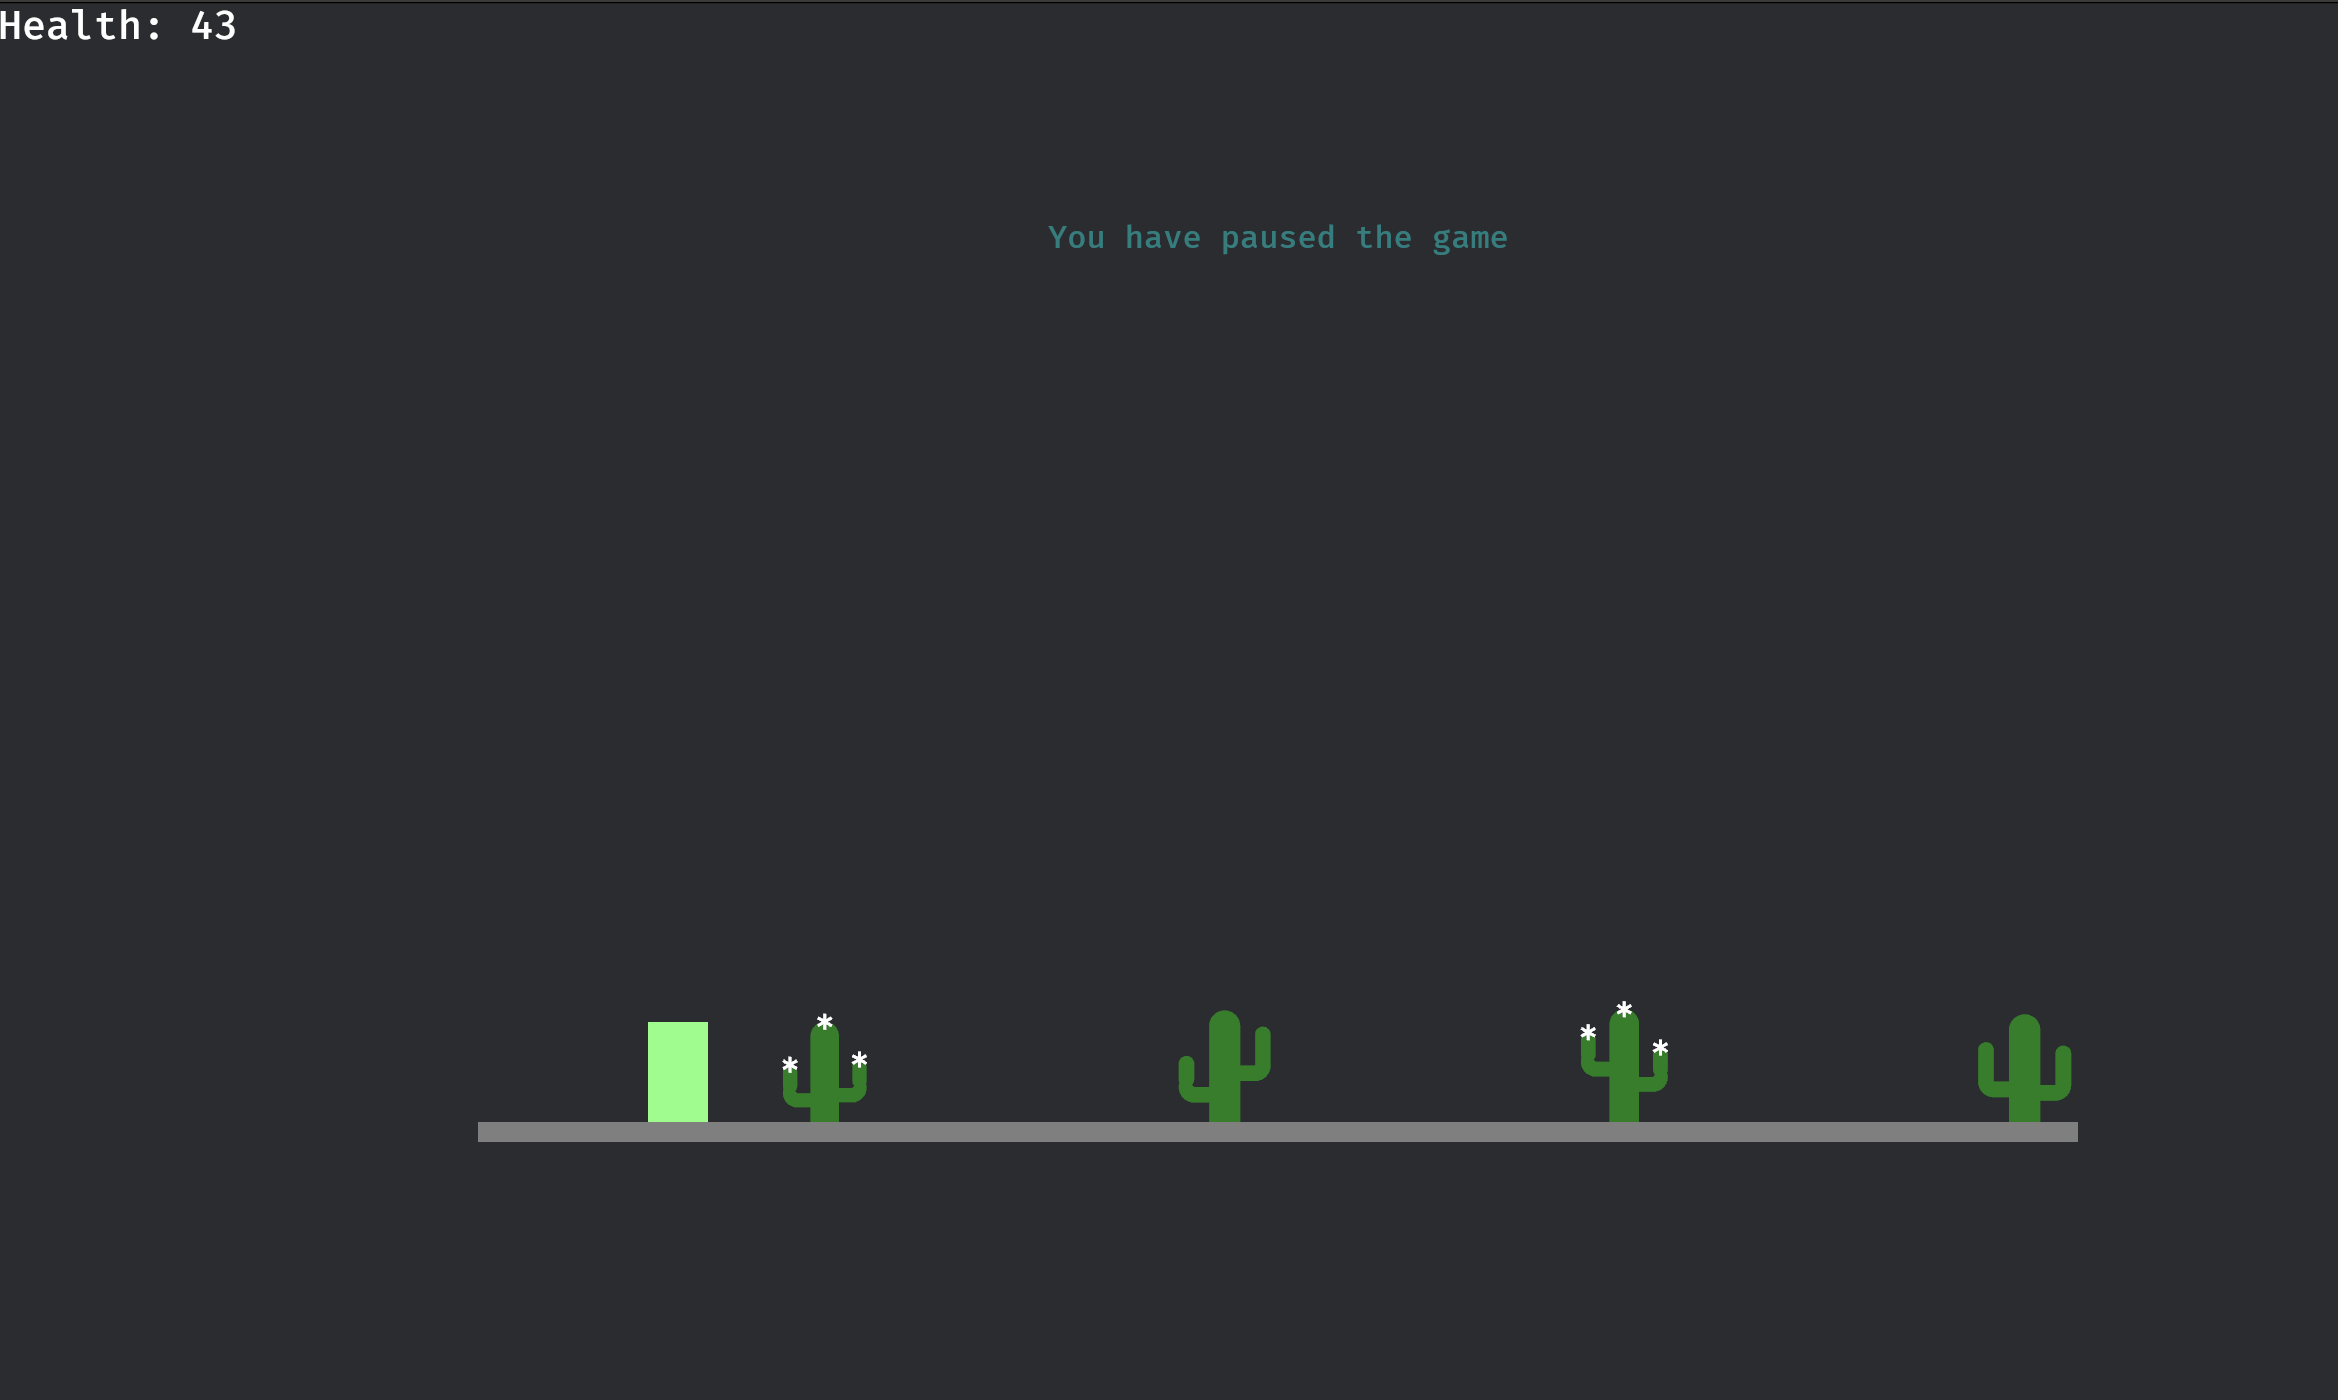
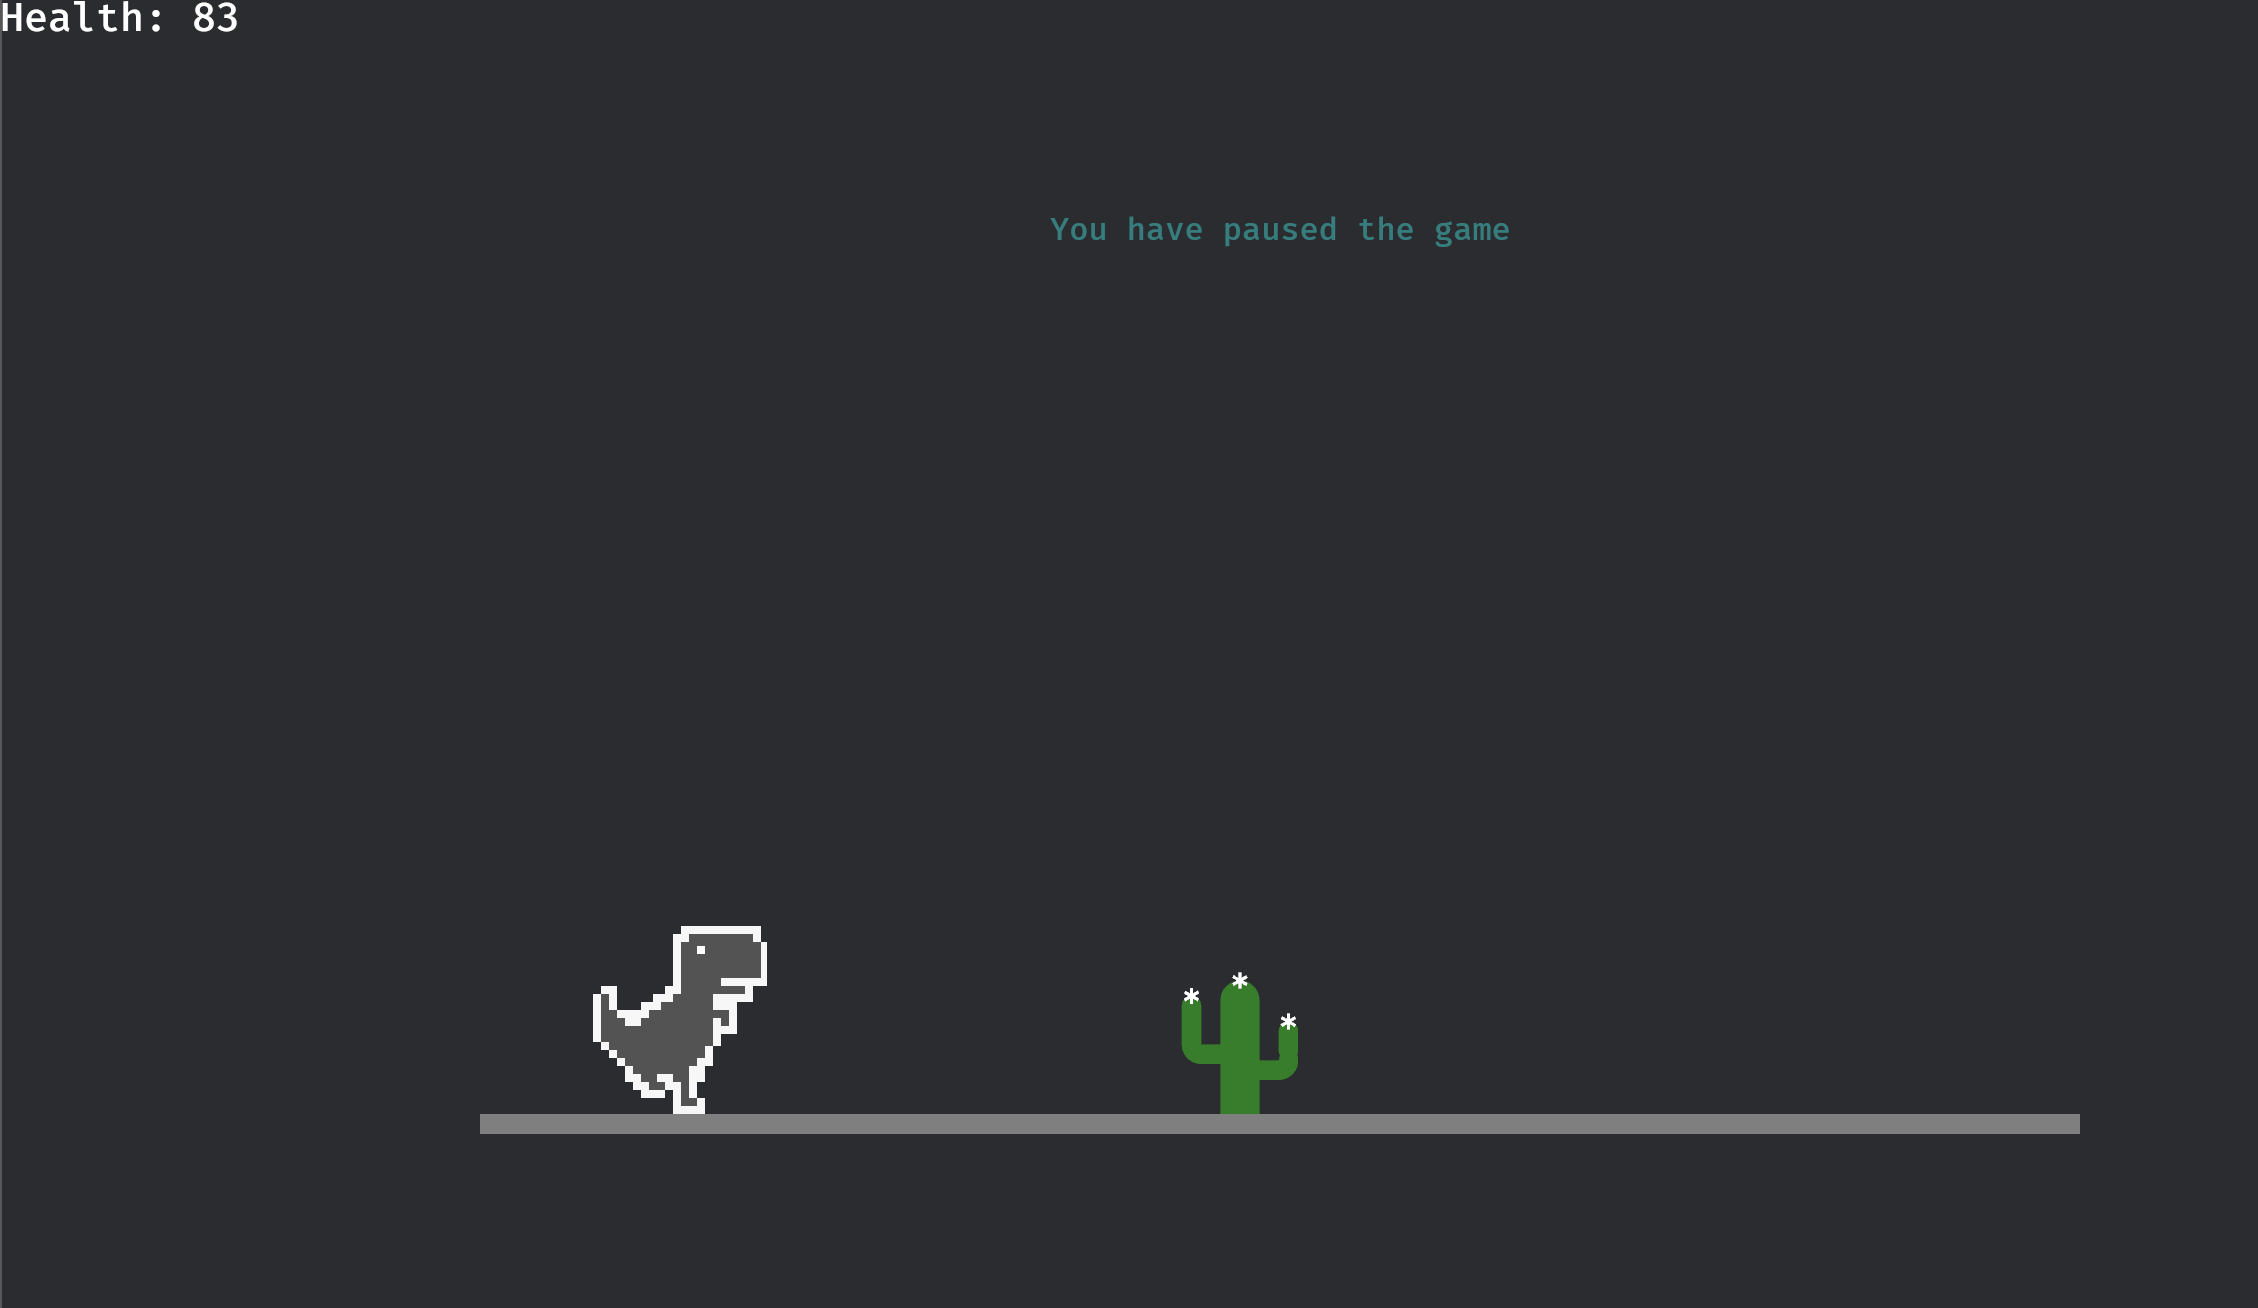
Add running dinosaur. Sprite ripped from Chrome dino game

Changed region(s): [[0.186, 0.7034, 0.93, 0.8869], [0.434, 0.1529, 0.682, 0.1835], [0.0, 0.0, 0.124, 0.0306]]

diff --git a/src/main.rs b/src/main.rs
@@ -1,8 +1,7 @@
 mod cactus;
 
-use crate::cactus::{generate_cactus, spawn_cactus};
+use crate::cactus::spawn_cactus;
 use crate::GameState::{GameOver, InGame};
-use std::f32::consts::PI;
 use bevy::input::keyboard::KeyboardInput;
 use bevy::input::ButtonState;
 use bevy::prelude::*;
@@ -10,16 +9,14 @@ use bevy::sprite::Anchor;
 use bevy_prng::WyRand;
 use bevy_rand::prelude::{EntropyPlugin, GlobalEntropy};
 use rand_core::RngCore;
-use rand::Rng;
 
 //region Constants
 const GAME_SPEED: f32 = 400.0;
-const JUMP_FORCE: f32 = 2000.0;
+const JUMP_FORCE: f32 = 1800.0;
 const GRAVITY: f32 = -4000.0;
 const PLAYER_X: f32 = -300.0;
-const PLAYER_SIZE: Vec2 = Vec2::new(30.0, 50.0);
-const PLAYER_COLOR: Color = Color::srgb(0.5, 1.0, 0.5);
-const SPAWN_INTERVAL: f32 = 0.5;
+const PLAYER_SIZE: Vec2 = Vec2::new(87.0, 94.0);
+const SPAWN_INTERVAL: f32 = 1.5;
 const GROUND_LEVEL: f32 = -200.0;
 const GROUND_SIZE: Vec2 = Vec2::new(800.0, 10.0);
 const GROUND_EDGE: f32 = GROUND_SIZE.x / 2.0;
@@ -28,8 +25,7 @@ const OBSTACLE_SIZE: Vec2 = Vec2::new(80.0, 100.0);
 const OBSTACLE_COLOR: Color = Color::srgb(1.0, 0.0, 0.0);
 const HEALTH_PICKUP_SIZE: Vec2 = Vec2::new(30.0, 30.0);
 const HEALTH_PICKUP_COLOR: Color = Color::srgb(0.0, 1.0, 0.0);
-const HEALTH_PICKUP_SPAWN_CHANCE: f32 = 0.0; // 30% chance to spawn instead of obstacle
-const CACTUS_FLOWER_CHANCE: f32 = 0.3; // 30% chance to spawn a flower on top of cactus
+const HEALTH_PICKUP_SPAWN_CHANCE: f32 = 0.3; // 30% chance to spawn instead of obstacle
 const INITIAL_HEALTH: usize = 99;
 #[derive(Component)]
 struct HealthPickup;
@@ -70,7 +66,33 @@ enum GameState {
     GameOver,
 }
 //endregion
+#[derive(Component)]
+struct AnimationIndices {
+    first: usize,
+    last: usize,
+}
 
+#[derive(Component, Deref, DerefMut)]
+struct AnimationTimer(Timer);
+
+fn animate_sprite(
+    time: Res<Time>,
+    mut query: Query<(&AnimationIndices, &mut AnimationTimer, &mut Sprite)>,
+) {
+    for (indices, mut timer, mut sprite) in &mut query {
+        timer.tick(time.delta());
+
+        if timer.just_finished() {
+            if let Some(atlas) = &mut sprite.texture_atlas {
+                atlas.index = if atlas.index == indices.last {
+                    indices.first
+                } else {
+                    atlas.index + 1
+                };
+            }
+        }
+    }
+}
 #[cfg(target_arch = "wasm32")]
 use wasm_bindgen::prelude::*;
 
@@ -84,7 +106,7 @@ pub fn run() {
 
 fn main() {
     App::new()
-        .add_plugins(DefaultPlugins)
+        .add_plugins(DefaultPlugins.set(ImagePlugin::default_nearest())) // prevents blurry sprites
         .add_plugins(EntropyPlugin::<WyRand>::default())
         .add_systems(Startup, setup)
         .insert_resource(ObstacleSpawningTimer(Timer::from_seconds(
@@ -107,6 +129,7 @@ fn main() {
                 detect_collision,
                 render_health_info,
                 check_health,
+                animate_sprite,
             )
                 .run_if(in_state(InGame)),
         )
@@ -115,15 +138,24 @@ fn main() {
         .run();
 }
 
-fn setup(mut commands: Commands) {
+fn setup(mut commands: Commands, asset_server: Res<AssetServer>, mut texture_atlas_layouts: ResMut<Assets<TextureAtlasLayout>>) {
     commands.spawn(Camera2d::default());
+
+    let texture = asset_server.load("DinoRun1-0.png");
+    let layout = TextureAtlasLayout::from_grid(UVec2::new(87, 94), 2, 1, Some(UVec2::new(1,0)), None);
+
+    let texture_atlas_layout = texture_atlas_layouts.add(layout);
+    let animation_indices = AnimationIndices { first: 0, last: 1 };
 
     // Player
     commands.spawn((
         Player,
-        Sprite {
-            color: PLAYER_COLOR,
-            custom_size: Some(PLAYER_SIZE),
+        Sprite{
+            image: texture,
+            texture_atlas: Some(TextureAtlas {
+                layout: texture_atlas_layout,
+                index: animation_indices.first,
+            }),
             anchor: Anchor::BottomCenter,
             ..default()
         },
@@ -131,6 +163,9 @@ fn setup(mut commands: Commands) {
         Velocity(Vec3::ZERO),
         Health(INITIAL_HEALTH),
         OriginalSize(PLAYER_SIZE),
+        animation_indices,
+        AnimationTimer(Timer::from_seconds(0.1, TimerMode::Repeating)),
+
     ));
 
     commands.spawn((HealthInfo, Text::new(format!("Health: {}", INITIAL_HEALTH))));
@@ -206,6 +241,9 @@ fn spawn_obstacles(
                     custom_size: Some(HEALTH_PICKUP_SIZE),
                     anchor: Anchor::BottomCenter,
                     ..default()
+                },
+                Collider {
+                    size: HEALTH_PICKUP_SIZE,
                 },
                 Transform::from_xyz(obstacle_x, obstacle_y, 0.0),
             ));
@@ -288,16 +326,18 @@ fn detect_collision(
     mut commands: Commands,
     mut player_query: Query<(&Transform, &mut Health), With<Player>>,
     obstacle_query: Query<(Entity, &Transform, &Children), With<Obstacle>>,
+    health_pickup_query: Query<(Entity, &Transform), With<HealthPickup>>,
     collider_query: Query<(&Transform, &Collider)>,
+    asset_server: Res<AssetServer>,
 ) {
     if let Ok((player_transform, mut health)) = player_query.get_single_mut() {
         let player_size = PLAYER_SIZE;
         let player_half = player_size / 2.0;
 
+        // Check collisions with obstacles
         for (entity, obstacle_transform, children) in obstacle_query.iter() {
             for &child in children.iter() {
                 if let Ok((child_transform, collider)) = collider_query.get(child) {
-                    // Combine parent and child transforms
                     let global_transform = obstacle_transform.mul_transform(*child_transform);
 
                     if is_colliding(
@@ -308,13 +348,27 @@ fn detect_collision(
                     ) {
                         health.0 = health.0.saturating_sub(1);
                         commands.entity(entity).despawn_recursive();
-                        break; // No need to check other parts
+                        break;
                     }
                 }
             }
         }
+
+        // Check collisions with health pickups
+        for (entity, pickup_transform) in health_pickup_query.iter() {
+            if is_colliding(
+                player_transform.translation,
+                player_half,
+                pickup_transform.translation,
+                HEALTH_PICKUP_SIZE / 2.0,
+            ) {
+                health.0 = health.0.saturating_add(1);
+                commands.entity(entity).despawn();
+            }
+        }
     }
 }
+
 
 #[derive(Component)]
 pub struct Collider {
@@ -399,7 +453,6 @@ fn restart_game(
     mut game_state: ResMut<NextState<GameState>>,
     player_query: Query<Entity, With<Player>>,
     obstacle_query: Query<Entity, With<Obstacle>>,
-    mut health_info_query: Query<&mut Text, With<HealthInfo>>,
     game_over_text_query: Query<Entity, With<GameOverText>>,
 ) {
     for e in events.read() {

diff --git a/src/cactus.rs b/src/cactus.rs
@@ -1,4 +1,4 @@
-use crate::{Collider, Obstacle, CACTUS_FLOWER_CHANCE, HEALTH_PICKUP_SPAWN_CHANCE};
+use crate::{Collider, Obstacle};
 use bevy::asset::Assets;
 use bevy::color::Color;
 use bevy::hierarchy::{BuildChildren, ChildBuild};
@@ -9,12 +9,13 @@ use bevy::prelude::{
     MeshMaterial2d, Rectangle, ResMut, Transform, Visibility,
 };
 use bevy::render::render_resource::{Extent3d, TextureDimension, TextureFormat};
-use bevy::sprite::MaterialMesh2dBundle;
 use bevy_prng::WyRand;
 use bevy_rand::global::GlobalEntropy;
 use rand::Rng;
 use rand_core::RngCore;
 use std::f32::consts::PI;
+
+const CACTUS_FLOWER_CHANCE: f32 = 0.3; // 30% chance to spawn a flower on top of cactus
 
 pub(crate) fn spawn_cactus(
     mut commands: Commands,
@@ -24,13 +25,6 @@ pub(crate) fn spawn_cactus(
     rng: &mut GlobalEntropy<WyRand>,
 ) {
     let green = Color::srgb(0.0, 0.5, 0.1);
-    let black = Color::BLACK;
-    let blue = Color::srgb(0.0, 0.0, 1.0);
-    let orange = Color::srgb(1.0, 0.5, 0.0);
-    let yellow = Color::srgb(1.0, 1.0, 0.0);
-
-
-
 
     // Create the main cactus parent first
     let cactus_entity = commands
@@ -116,7 +110,7 @@ pub(crate) fn spawn_cactus(
                     arm.spawn((
                         Mesh2d(
                             meshes
-                                .add(CircularSector::new(curve_radius, PI / 2.0))
+                                .add(CircularSector::new(curve_radius, PI / 1.5))
                                 .into(),
                         ),
                         MeshMaterial2d(materials.add(green)),
